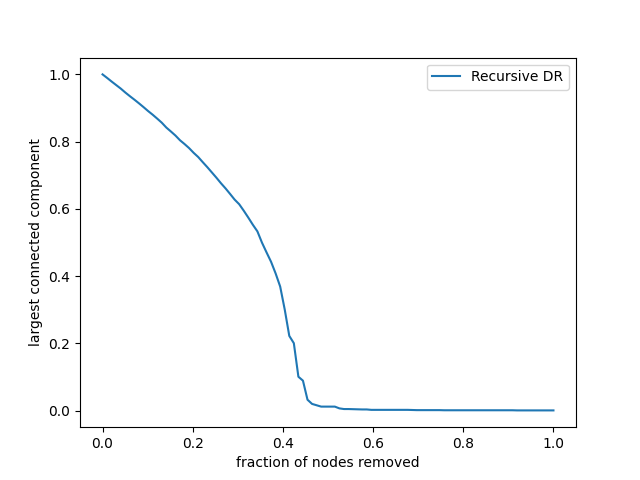
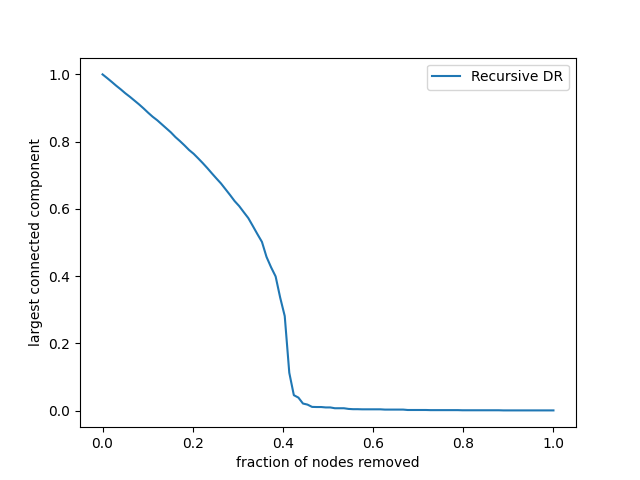
refactor: 重构代码并删除无用文件

diff --git a/recursive.py b/recursive.py
@@ -1,4 +1,4 @@
-import domirank as dr
+import drank as dr
 import networkx as nx
 import matplotlib.pyplot as plt
 import scipy as sp
@@ -28,6 +28,8 @@ np.random.seed(seed)
 ############## IMPORTANT!!!! Here you can create whatever graph you want and just comment this erdos-renyi network out ############
 # THIS IS THE INPUT, CHANGE THIS TO ANY GRAPH #######
 G = nx.fast_gnp_random_graph(N, 2*m/N, directed=directed, seed=seed)
+nx.draw_networkx(G)
+plt.savefig('graph.png')
 
 # 在这里和下面插入图 ########################3
 # insert network hereunder ########################3
@@ -69,24 +71,18 @@ plt.ylabel('loss')
 
 
 # generate the centrality using the optimal sigma
-_, ourDomiRankDistribution = dr.domirank(
-    GAdj, analytical=analytical, sigma=sigma)
+_, ourDomiRankDistribution = dr.domirank_by_recursive(
+    GAdj, sigma=sigma)
 # generate the attack using the centrality (descending)
 ourDomiRankAttack = dr.generate_attack(ourDomiRankDistribution)
 # attack the network and get the largest connected component evolution
 domiRankRobustness, domiRankLinks = dr.network_attack_sampled(
     GAdj, ourDomiRankAttack)
 
-# UNCOMMENT HERE: to compute the analytical solution for the same sigma value (make sure your network is not too big.)
-# analyticalDomiRankDistribution = sp.sparse.linalg.spsolve(sigma*GAdj + sp.sparse.identity(GAdj.shape[0]), sigma*GAdj.sum(axis=-1)) #analytical solution to DR
-# analyticalDomiRankAttack = dr.generate_attack(analyticalDomiRankDistribution) #generate the attack using the centrality (descending)
-# domiRankRobustnessA, domiRankLinksA = dr.network_attack_sampled(GAdj, analyticalDomiRankAttack) #attack the network and get the largest connected component evolution
-
 # generating the plot
 fig2 = plt.figure(2)
 ourRangeNew = np.linspace(0, 1, domiRankRobustness.shape[0])
 plt.plot(ourRangeNew, domiRankRobustness, label='Recursive DR')
-# plt.plot(ourRangeNew, domiRankRobustnessA, label = 'Analytical DR') #UNCOMMENT HERE to plot the analyitcal solution
 plt.legend()
 plt.xlabel('fraction of nodes removed')
 plt.ylabel('largest connected component')
